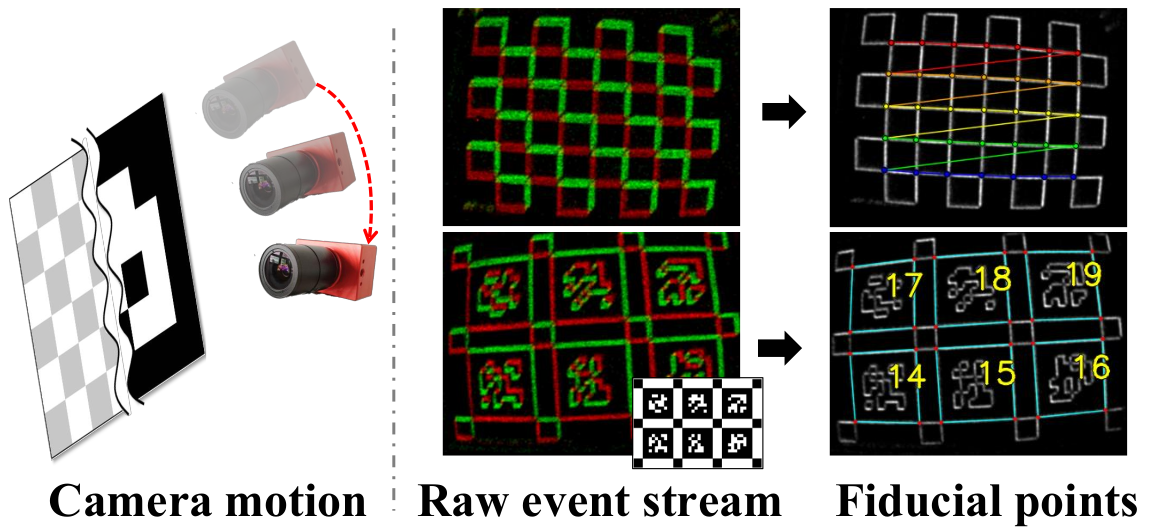
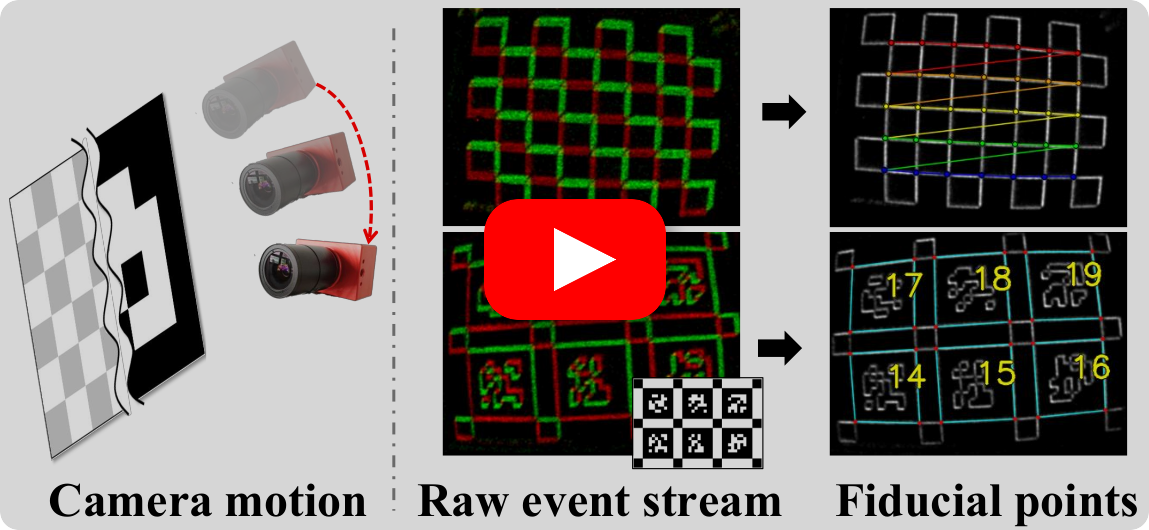
docs: modify video teaser

diff --git a/README.md b/README.md
@@ -13,7 +13,6 @@
   <a href="TBD"><img src="https://img.shields.io/badge/Paper-Coming%20Soon-2563EB" alt="Paper"></a>
   <a href="https://vision3d-lab.github.io/corner2tag/"><img src="https://img.shields.io/badge/Project-Page-0EA5E9" alt="Project Page"></a>
   <a href="TBD"><img src="https://img.shields.io/badge/arXiv-Coming%20Soon-B31B1B?logo=arxiv&logoColor=white" alt="arXiv"></a>
-  <!-- <a href="https://youtu.be/Nc1FxERhoXU"><img src="https://img.shields.io/badge/Video-YouTube-FF0000?logo=youtube&logoColor=white" alt="Video"></a> -->
   <a href="https://taehun-ryu.github.io/corner2tag/"><img src="https://img.shields.io/badge/Docs-corner2tag-475569?logo=readthedocs&logoColor=white" alt="Documentation"></a>
 </p>
 
@@ -23,8 +22,10 @@
 
 <p align="center">
   <a href="https://youtu.be/Nc1FxERhoXU">
-    <img src="imgs/teaser.png" alt="Video" width="480">
+    <img src="imgs/teaser.png" alt="Watch the video" width="640">
   </a>
+  <br>
+  <sub><b>Project video.</b> Watch on YouTube.</sub>
 </p>
 
 ## News
